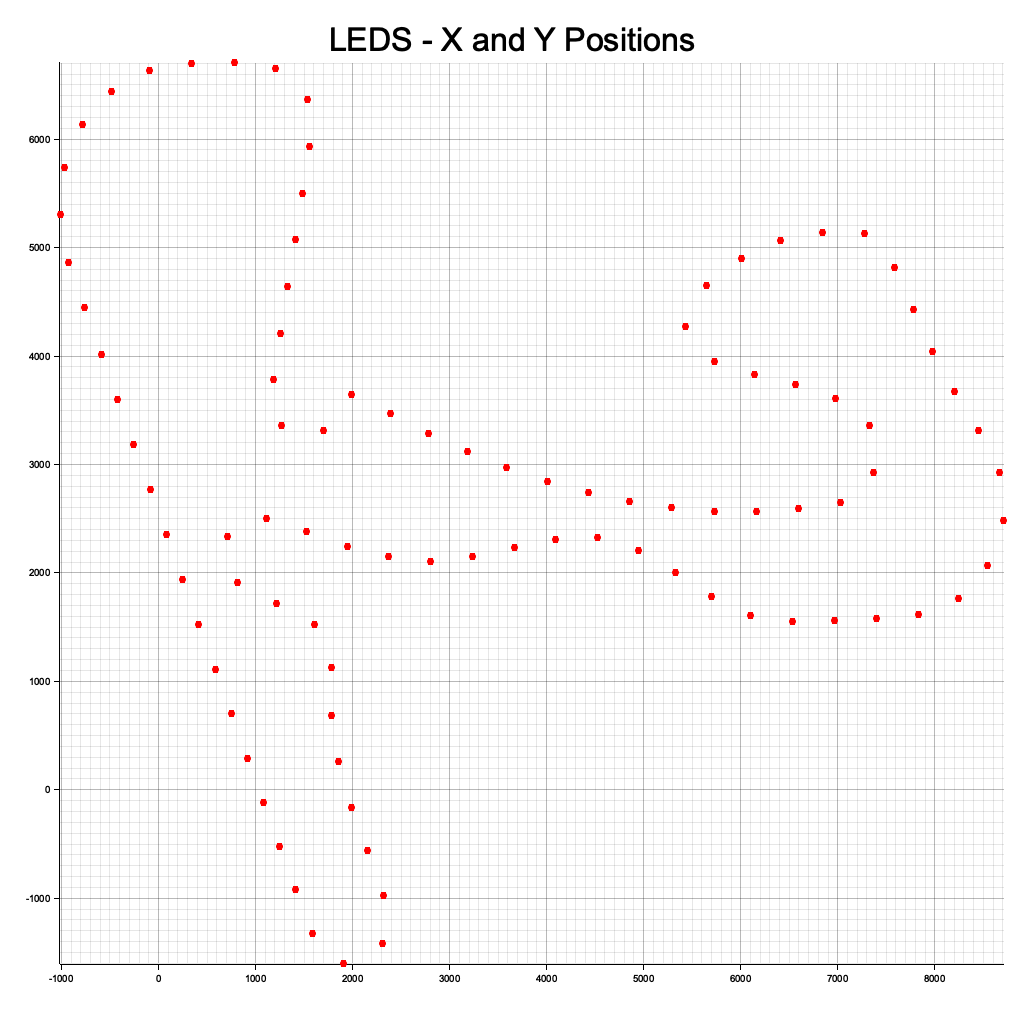
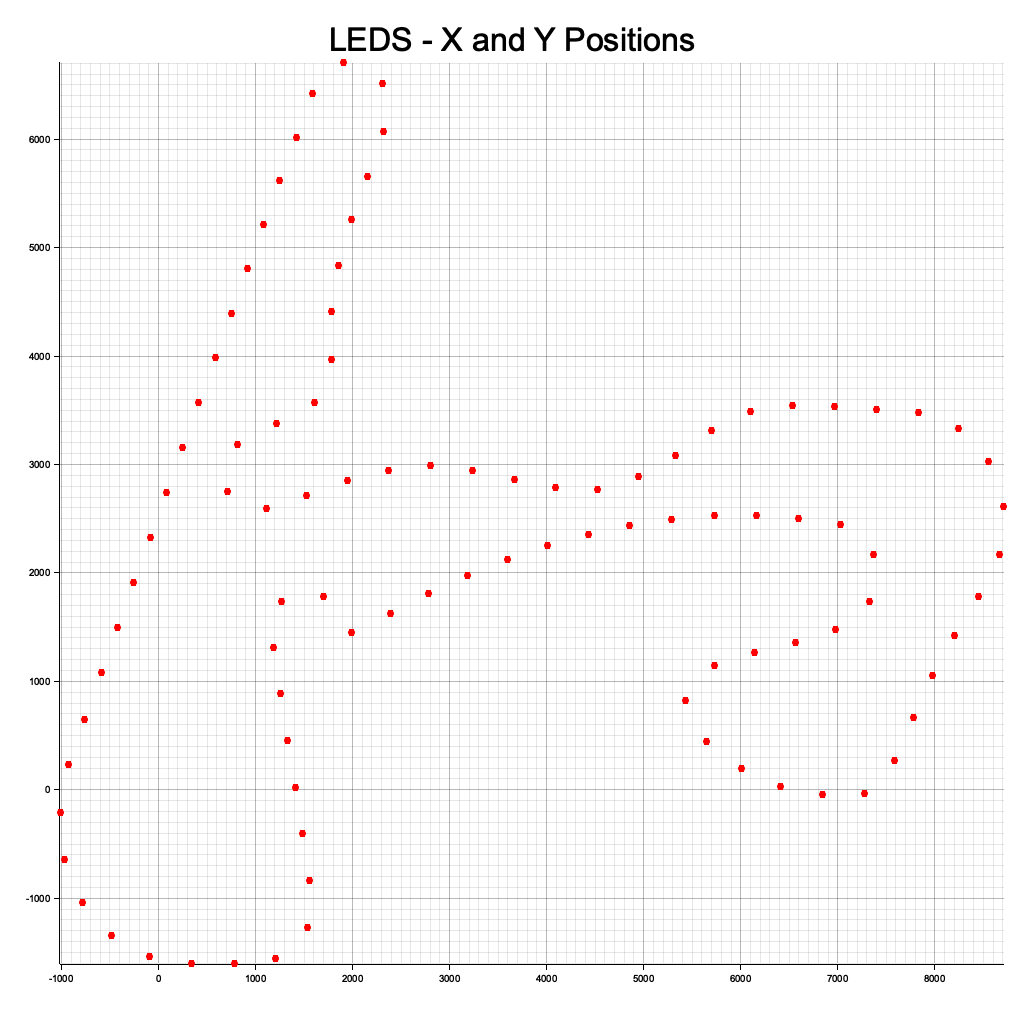
Fix plot

diff --git a/src/main.rs b/src/main.rs
@@ -11,7 +11,7 @@ struct Location {
 
 fn main() -> Result<(), Box<dyn Error>> {
     // Path to the CSV file
-    let csv_file_path = "led_coords.csv";
+    let csv_file_path = "zandvoort_led_coordinates_normalized_check_for_inversion.csv";
 
     // Create a reader for the CSV
     let mut rdr = Reader::from_path(csv_file_path)?;
